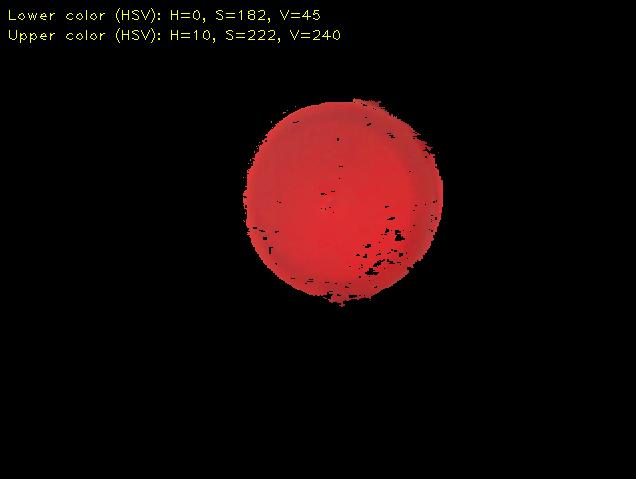
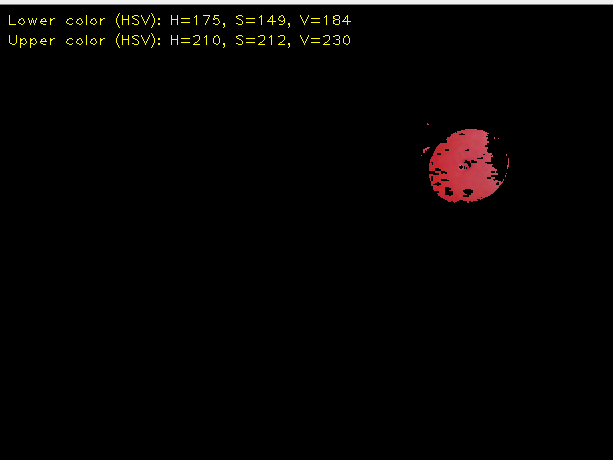
Ajuste Range Cores

Changed region(s): [[0.3719, 0.1826, 0.8369, 0.6391], [0.0, 0.0, 1.0, 0.0913]]

diff --git a/reconhecimento_cores.py b/reconhecimento_cores.py
@@ -1,3 +1,4 @@
+# coding=utf-8
 import cv2
 import numpy as np
 
@@ -6,33 +7,40 @@ print(cv2.__version__)
 # define range colors in HSV
 
 # vermelho
-lower_red = np.array([168, 175, 173])
-upper_red = np.array([191, 234, 255])
+lower_red = np.array([158, 232, 147])
+upper_red = np.array([198, 255, 226])
 
 # laranja
-lower_orange = np.array([0, 182, 45])
-upper_orange = np.array([10, 222, 240])
+lower_orange = np.array([175, 149, 184])
+upper_orange = np.array([210, 212, 230])
 
 # verde
-lower_green = np.array([66, 136, 93])
-upper_green = np.array([83, 236, 144])
+lower_green = np.array([51, 107, 128])
+upper_green = np.array([82, 255, 190])
 
 # azul
-lower_blue = np.array([101, 130, 80])
-upper_blue = np.array([128, 255, 188])
+lower_blue = np.array([81, 138, 133])
+upper_blue = np.array([109, 219, 219])
 
 # amarelo
 lower_yellow = np.array([4, 181, 88])
 upper_yellow = np.array([24, 255, 255])
 
 # roxo
-lower_purple = np.array([104, 107, 105])
-upper_purple = np.array([131, 280, 143])
+lower_purple = np.array([110, 88, 120])
+upper_purple = np.array([156, 159, 201])
 
 # rosa
-lower_pink = np.array([160, 172, 112])
-upper_pink = np.array([172, 255, 236])
+lower_pink = np.array([153, 112, 183])
+upper_pink = np.array([188, 174, 248])
 
+# branco
+lower_white = np.array([0, 0, 255])
+upper_white = np.array([255, 255, 255])
+
+# marrom
+lower_brown = np.array([157, 74, 0])
+upper_brown = np.array([223, 216, 70])
 
 def get_moments_centroid(moments):
     return (int(moments["m10"] / moments["m00"]), int(moments["m01"] / moments["m00"]))
@@ -71,7 +79,14 @@ def color_tracking(image, color_mask, contour_color, color_name):
         cv2.putText(image, color_name, centroid, cv2.FONT_HERSHEY_PLAIN, 1, contour_color)
 
 
+# Caputura o video
 webcam = cv2.VideoCapture(0)
+_, frame = webcam.read()
+
+# Define as configurações para salvar o frame
+output_video = "./output/saida_video.mp4"
+save_frame = cv2.VideoWriter(output_video, cv2.VideoWriter_fourcc(*'mp4v'), 10,
+                             (frame.shape[1], frame.shape[0]))
 
 if not webcam.isOpened():
     print("Could not open webcam!")
@@ -90,6 +105,8 @@ while True:
     pink_mask = get_color_mask(frame_hsv, lower_pink, upper_pink)
     purple_mask = get_color_mask(frame_hsv, lower_purple, upper_purple)
     orange_mask = get_color_mask(frame_hsv, lower_orange, upper_orange)
+    white_mask = get_color_mask(frame_hsv, lower_white, upper_white)
+    brown_mask = get_color_mask(frame_hsv, lower_brown, upper_brown)
 
     color_tracking(frame, blue_mask, (255, 0, 0), 'azul')
     color_tracking(frame, green_mask, (0, 255, 0), 'verde')
@@ -97,13 +114,17 @@ while True:
     color_tracking(frame, yellow_mask, (0, 255, 255), 'amarelo')
     color_tracking(frame, pink_mask, (255, 0, 255), 'rosa')
     color_tracking(frame, purple_mask, (255, 85, 170), 'roxo')
-    color_tracking(frame, orange_mask, (85, 85, 255), 'laranja')
+    color_tracking(frame, orange_mask, (0, 102, 255), 'laranja')
+    color_tracking(frame, white_mask, (255, 255, 255), 'branco')
+    color_tracking(frame, brown_mask, (0, 51, 102), 'marron')
 
     cv2.imshow("video", frame)
+    save_frame.write(frame)
 
     if cv2.waitKey(1) & 0xFF == ord("q"):
         break
 
 # Release all resources.
+save_frame.release()
 webcam.release()
 cv2.destroyAllWindows()

diff --git a/encontrar_valores_hsv.py b/encontrar_valores_hsv.py
@@ -1,3 +1,4 @@
+
 import cv2
 
 filter_type = 'HSV'
